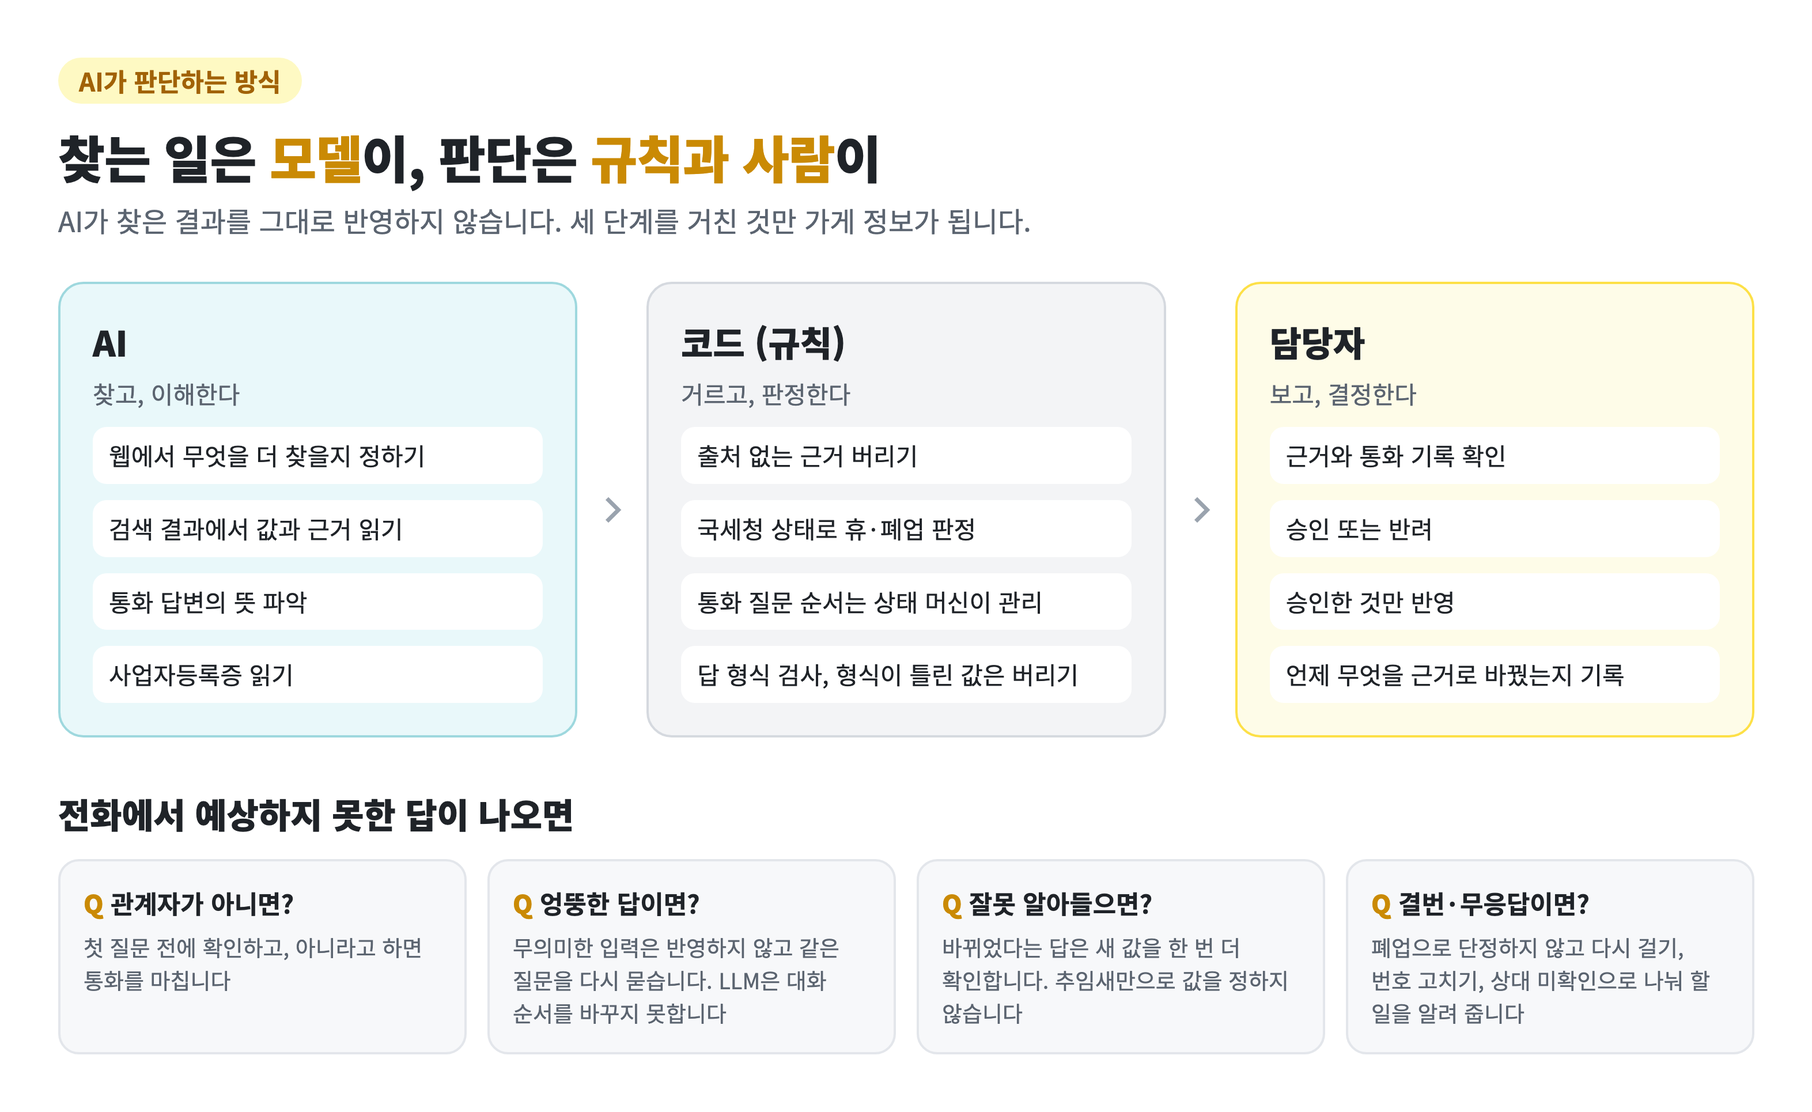
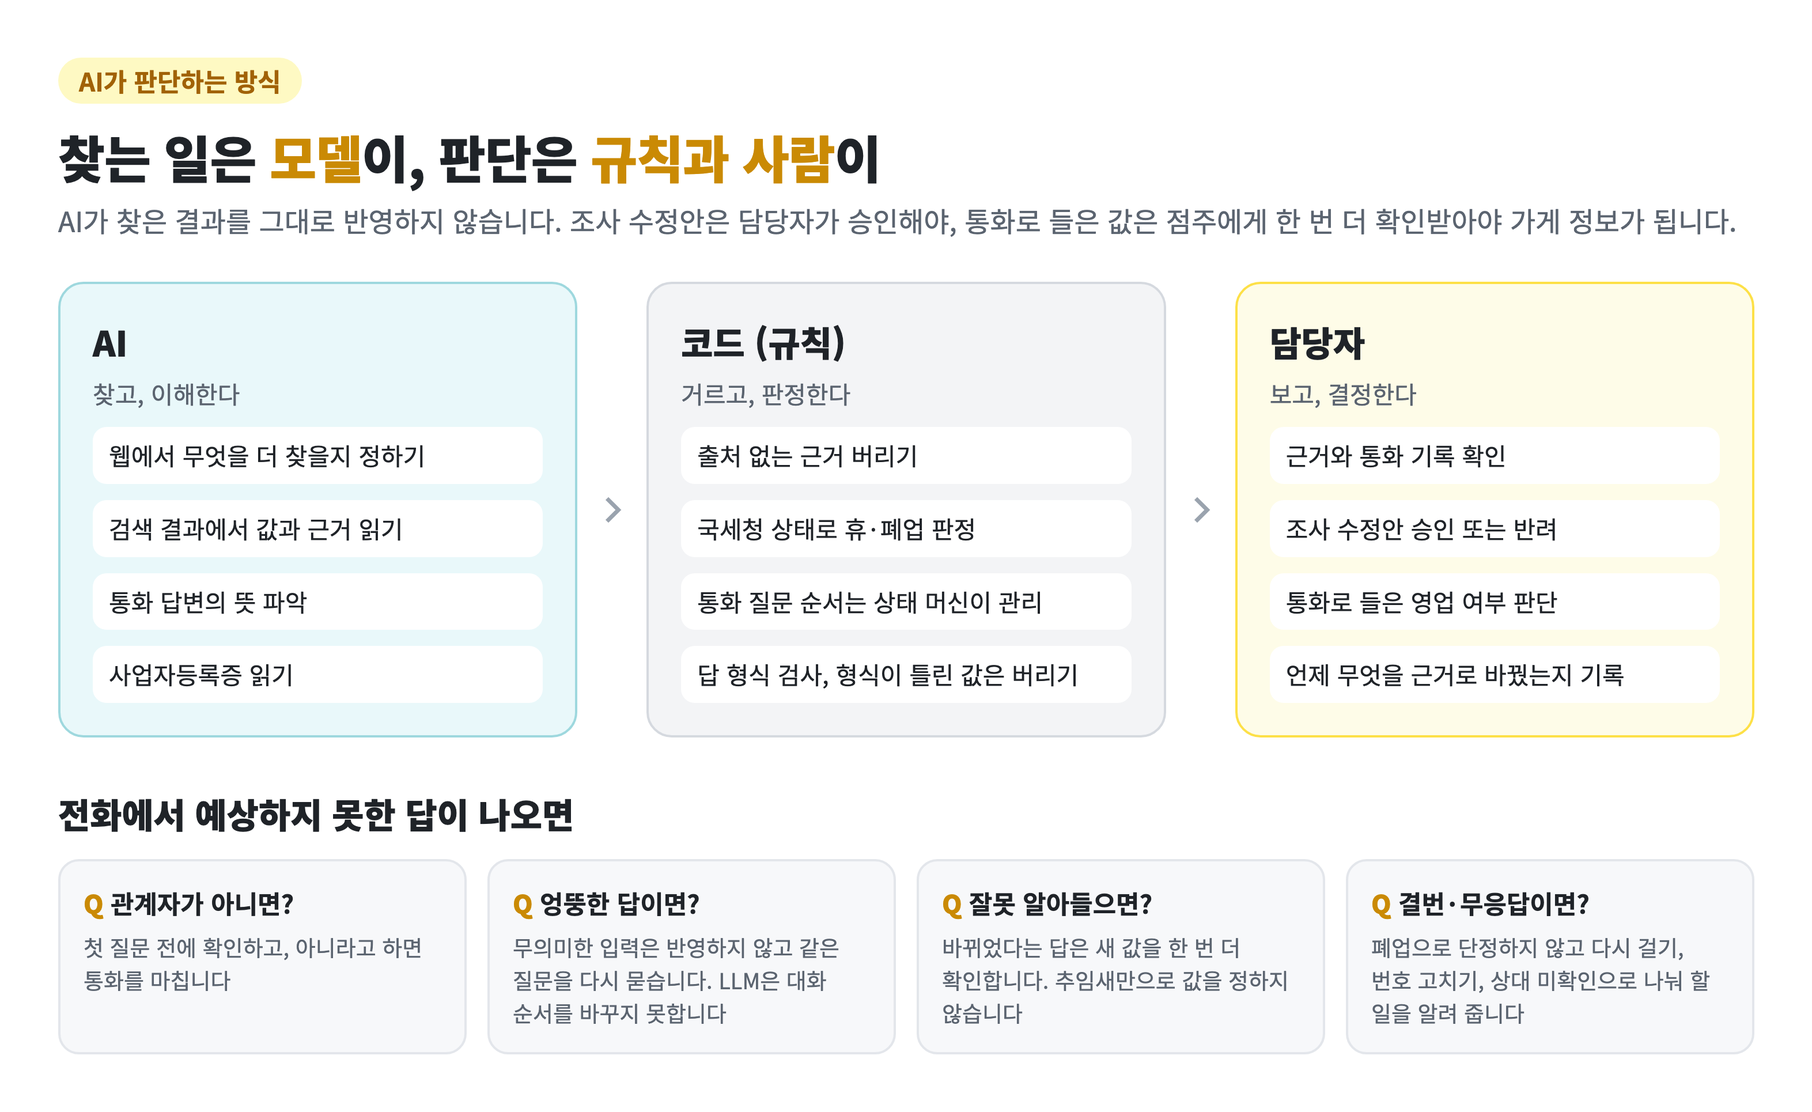
docs: README·멘토링·트러블슈팅 문서를 코드와 PR 원문에 맞춘다
- 확인 전화 결과는 상호·위치·전화를 바로 반영하고 영업 여부만 담당자가 판단한다(CallService.applyToStore, docs/확인_전화.md 8장). 그림 2장과 3회차 기록의 '승인해야 반영' 표현을 고친다
- 트러블슈팅 1·3번, 기술 멘토링 1·4회차의 PR 번호·수치·출처를 원문에 맞춘다
- README 측정·의도와 달랐던 결과 표, 로컬 실행 스위치, 저장소 구조, 배포 폴백 설명을 지금 설정에 맞춘다
- 백엔드 README 의 소개와 환경 변수 안내를 고친다

Changed region(s): [[0.3116, 0.1865, 0.966, 0.2176], [0.7167, 0.5285, 0.8725, 0.5596], [0.7167, 0.4663, 0.8725, 0.4974]]

diff --git a/docs/트러블슈팅/03.md b/docs/트러블슈팅/03.md
@@ -7,16 +7,16 @@
 | AI | 2026-09-08 ~ 2026-10-28 | [#11](https://github.com/kakaotechcampus-4/ktc4-kyungpook-6/pull/11) · [#16](https://github.com/kakaotechcampus-4/ktc4-kyungpook-6/pull/16) · [#24](https://github.com/kakaotechcampus-4/ktc4-kyungpook-6/pull/24) · [#30](https://github.com/kakaotechcampus-4/ktc4-kyungpook-6/pull/30) · [#42](https://github.com/kakaotechcampus-4/ktc4-kyungpook-6/pull/42) · [#54](https://github.com/kakaotechcampus-4/ktc4-kyungpook-6/pull/54) · [#74](https://github.com/kakaotechcampus-4/ktc4-kyungpook-6/pull/74) · [#89](https://github.com/kakaotechcampus-4/ktc4-kyungpook-6/pull/89) · [#108](https://github.com/kakaotechcampus-4/ktc4-kyungpook-6/pull/108) · [#120](https://github.com/kakaotechcampus-4/ktc4-kyungpook-6/pull/120) · [#134](https://github.com/kakaotechcampus-4/ktc4-kyungpook-6/pull/134) — 멘토 리뷰는 [#12](https://github.com/kakaotechcampus-4/ktc4-kyungpook-6/pull/12) · [#25](https://github.com/kakaotechcampus-4/ktc4-kyungpook-6/pull/25) |
 
 > **한 줄 요약**
-> AI 파트는 처음부터 "돌려 보니 되더라"가 아니라 **정답지가 있는 테스트셋과 수치**로 품질을 쟀습니다. 첫 벤치마크에서 모델은 23건 중 0건을 맞히면서 9건에 확신도 0.90~1.00을 달았고, 그 측정이 설계를 바꿨습니다(정답 하나 → 후보 여러 개 + 외부 검증). 이후 2차 조사도 공공데이터로 만든 60곳 벤치마크로 웹검색만·지도 대조·에이전트를 비교해 **10곳 → 22곳**으로 올렸고, 측정하고 넣지 않은 것까지 이유를 남겼습니다. 측정 도구 자체의 버그(분모·캐시·예외 삼킴)도 세 번 잡혔습니다.
+> AI 파트는 처음부터 "돌려 보니 되더라"가 아니라 **정답지가 있는 테스트셋과 수치**로 품질을 쟀습니다. 첫 벤치마크에서 모델은 23건 중 0건을 맞히면서 9건에 확신도 0.90~1.00을 달았고, 그 측정이 설계를 바꿨습니다(정답 하나 → 후보 여러 개 + 외부 검증). 이후 2차 조사도 공공데이터로 만든 60곳 벤치마크로 웹검색만·지도 대조·에이전트를 비교해 **10곳 → 22곳**으로 올렸고, 측정하고 넣지 않은 것까지 이유를 남겼습니다. 측정 도구 자체의 버그(분모·캐시·예외 누락)도 세 번 잡혔습니다.
 
 ## 한눈에 보기
 
 ```mermaid
 flowchart LR
     subgraph P1["① 사업자등록번호 웹검색 폴백"]
-        A["9/9 · #11<br/>fixture 23건 벤치마크<br/>완전일치 0/23<br/>오답 9건이 confidence 0.9+"]:::cause
+        A["9/9 · #11<br/>벤치마크 스크립트<br/>첫 측정 완전일치 0/23<br/>오답 9건이 confidence 0.9+"]:::cause
         B["9/10 · 멘토 리뷰 #12<br/>분모 버그 · 파싱 예외<br/>confidence 게이트 금지"]:::found
-        C["9/16 · #24<br/>후보 여러 개 + 비즈노 검증<br/>0% → 23.8%"]:::fix
+        C["9/16 · #24<br/>후보 여러 개 + 비즈노 검증<br/>0/21 → 4/21<br/>9/19 재실행 5/21"]:::fix
         D["9/19 · #30<br/>파싱 실패율 재다가<br/>실패 가리던 경로 3곳"]:::found
         A --> B --> C --> D
     end
@@ -38,7 +38,7 @@ flowchart LR
 
 ### ① 간판 이름으로는 사업자등록번호가 안 나온다
 
-국세청 조회는 사업자등록번호로 합니다. 번호가 비어 있으면 상호명으로 비즈노에 묻는데, 등록명은 간판과 다릅니다(`성심당` → `주식회사 로쏘`). 그래서 LLM 웹검색으로 등록명을 찾는 폴백을 만들었고([#11](https://github.com/kakaotechcampus-4/ktc4-kyungpook-6/pull/11)), **처음부터 정답지가 있는 fixture 23건과 벤치마크 스크립트**(`ai/eval/benchmark.py`)를 같이 냈습니다.
+국세청 조회는 사업자등록번호로 합니다. 번호가 비어 있으면 상호명으로 비즈노에 묻는데, 등록명은 간판과 다릅니다(`성심당` → `주식회사 로쏘`). 그래서 LLM으로 등록명을 찾는 폴백을 만들면서([#11](https://github.com/kakaotechcampus-4/ktc4-kyungpook-6/pull/11), 이때는 검색 없이 모델 지식만으로 답했습니다), **정답지가 있는 fixture 23건과 벤치마크 스크립트**(`ai/eval/benchmark.py`)로 처음부터 쟀습니다. fixture는 로컬에만 두고, 수치는 [`웹검색_폴백.md`](../../ai/docs/웹검색_폴백.md)에 남겼습니다.
 
 첫 측정 결과입니다.
 
@@ -101,7 +101,7 @@ control   손대지 않는다 (대조군 — 오탐을 센다)
 
 ## 해결
 
-### 1. 정답이 아니라 후보를 받고, 비즈노가 검증한다 · #16, #24
+### 1. 정답이 아니라 후보를 받고, 비즈노가 검증한다 · #24
 
 `{official_name, confidence}` 하나를 요구하던 프롬프트를 버리고 **후보 여러 개 + 근거·주소·사업자번호**를 받게 했습니다. 주소가 다른 지역이면 기각, 번호가 있으면 역조회, 아니면 이름으로 비즈노 검색. `confidence` 필드는 없앴습니다 — 모델은 정확할 필요 없이 **후보 안에 정답이 하나만 있으면** 됩니다.
 
@@ -179,7 +179,7 @@ control   손대지 않는다 (대조군 — 오탐을 센다)
 | 거짓 "다름" (DB 가 맞는 60곳) | 11곳 | 10곳, 이사 오탐 0 |
 | 측정하고 안 넣은 것 | 기록 없음 | 8건을 이유와 함께 표로([`2차_조사.md`](../../ai/docs/2차_조사.md) "넣지 않은 것") |
 
-- 측정 도구의 버그 셋(분모 · 파싱 예외 · 실패 캐시)은 전부 **"수치가 좋게 나오는 쪽"**으로 틀려 있었습니다. 멘토 리뷰가 둘을, 파싱 실패율을 넣다가 하나를 잡았습니다.
+- 측정 도구의 버그 셋(분모 · 파싱 예외 · 실패 캐시)은 모두 **수치를 실제와 다르게** 보이게 했습니다. 분모는 확신도를 실제보다 낮게, 잡히지 않은 파싱 예외는 벤치마크 전체를 멈추게, 실패 캐시는 실패율을 0으로 보이게 했습니다. 멘토 리뷰가 둘을, 파싱 실패율을 넣다가 하나를 잡았습니다.
 - 모든 수치는 **1회 실행값**이고 문서에 그렇게 적혀 있습니다. `5/21` 의 95% 신뢰구간은 10.6~45.1%, 직전 실행 `4/21` 과 겹칩니다. 그래서 `19.0% → 23.8%` 를 개선이라고 부르지 않았습니다.
 - 재현: `uv run python -m eval.biz_number --model oracle`, `uv run python -m eval.mismatch_bench run --tag m1 --mode fixed` ([`웹검색_폴백.md`](../../ai/docs/웹검색_폴백.md), [`2차_조사.md`](../../ai/docs/2차_조사.md) 끝에 명령이 있다).
 
@@ -187,7 +187,7 @@ control   손대지 않는다 (대조군 — 오탐을 센다)
 
 **모델의 확신도는 품질 지표가 아니다.** 0/23 인 실행에서 9건이 0.9 이상이었습니다. 지표는 모델 바깥(비즈노·정답지)에서 와야 하고, 그게 없으면 사람이 거르는 구조여야 합니다.
 
-**측정 도구부터 의심한다.** 분모가 틀리고, 실패가 캐시되고, 예외가 삼켜지면 **아무것도 안 고쳐도 수치가 좋아집니다.** 비율 지표의 분모는 "집계 대상 전체"가 아니라 그 지표의 모집단(실제 호출 건수, 확실 표시 건수)이어야 합니다.
+**측정 도구부터 의심한다.** 분모가 틀리고, 실패가 캐시되고, 예외가 잡히지 않으면 **아무것도 안 고쳐도 수치가 달라집니다.** 비율 지표의 분모는 "집계 대상 전체"가 아니라 그 지표의 모집단(실제 호출 건수, 확실 표시 건수)이어야 합니다.
 
 **벤치마크 숫자와 서비스가 받는 결과는 다를 수 있다.** 시간 예산을 넣으면 벤치마크는 나빠지고 서비스는 좋아졌습니다. 무엇을 재는지가 "끝까지 기다렸을 때"인지 "백엔드가 끊는 조건"인지 먼저 정해야 합니다.
 

diff --git a/docs/트러블슈팅/01.md b/docs/트러블슈팅/01.md
@@ -4,7 +4,7 @@
 
 | 파트 | 기간 | 관련 PR |
 | --- | --- | --- |
-| Call · Back | 2026-11-04 ~ 2026-11-09 | [#153](https://github.com/kakaotechcampus-4/ktc4-kyungpook-6/pull/153) · [#162](https://github.com/kakaotechcampus-4/ktc4-kyungpook-6/pull/162) |
+| Call · Back | 2026-11-04 ~ 2026-11-10 | [#153](https://github.com/kakaotechcampus-4/ktc4-kyungpook-6/pull/153) · [#162](https://github.com/kakaotechcampus-4/ktc4-kyungpook-6/pull/162) |
 
 > **한 줄 요약**
 > 확인 전화를 실제로 받아 보니, 점주가 "네"라고 답한 뒤 다음 질문까지 4초씩 조용했습니다. 원인은 매 답마다 음성 인식(2초)과 LLM 판정(2초)을 거치는 구조였습니다. 답이 대부분 "네·아니요·다시요·잠깐만요"라는 점에 맞춰, 고르는 일은 분류 모델 Jev에 맡기고 LLM은 새 값을 뽑을 때만 부르게 나눠 **평균 1.5초**로 줄였습니다. 빨라진 만큼 잘못 알아듣고 저장하는 일은 상태 머신과 확신도 기준으로 막았습니다.
@@ -15,7 +15,7 @@
 flowchart LR
     A["11/4 · #153<br/>실제 통화 테스트<br/>답 뒤 4초 침묵"]:::cause
     B["11/4 · #153 코멘트<br/>원인 확인<br/>STT 2초 + LLM 판정 2초"]:::found
-    C["11/4 · a310901<br/>LLM 추론 강도 낮추기<br/>판정이 틀릴 수 있어 보류"]:::miss
+    C["11/4 · a310901<br/>LLM 추론 강도 낮춤<br/>매번 LLM을 거치는 구조는 그대로"]:::miss
     D["11/9 · #162<br/>Jev가 분류<br/>LLM은 값 추출만"]:::fix
     E["결과<br/>4초 → 평균 1.5초"]:::fix
     A --> B --> C --> D --> E
@@ -31,18 +31,18 @@ flowchart LR
 
 그런데 직접 받아 보니 대화가 계속 뚝뚝 끊겼습니다. "네"라고 답하고 나면 다음 질문이 나올 때까지 4초 정도 아무 소리가 없었습니다. 받는 입장에서는 끊긴 줄 알고 먼저 끊기 딱 좋은 시간이었습니다.
 
-그때 남긴 기록입니다.
-
-```
-09:02:07 요청 → 09:02:11 발신 → 09:02:39 연결 → 09:04:16 종료
-```
+그때 잰 통화입니다([확인 전화 문서](../확인_전화.md)).
 
 | 통화 | 연결부터 종료까지 | 주고받은 횟수 |
 | --- | --- | --- |
 | 세 항목 재확인, 끝까지 | 79초 | 4번 |
 | 한 항목 답하고 끊음 | 33초 | 2번 |
 
-세 가지를 물어보는 데 80초 가까이 걸렸고, 중간에 한 번 끊겼다가 이어진 통화는 3분 20초까지 갔습니다.
+세 가지를 물어보는 데 80초 가까이 걸렸습니다. 중간에 한 번 끊겼다가 같은 문장을 다시 말해 이어진 통화도 있었는데, 그 통화는 연결부터 종료까지 97초였고 3분 20초까지 간 적도 있습니다.
+
+```
+09:02:07 요청 → 09:02:11 발신 → 09:02:39 연결 → 09:04:16 종료   (중간에 한 번 끊겼다 이어진 통화, 97초)
+```
 
 이 기능은 전화를 거는 것보다 끝까지 답을 듣는 게 중요합니다. 가게에서 중간에 끊어 버리면 실패로 남고 담당자가 다시 걸어야 하니까, 이 침묵이 그대로 실패율이 될 것 같았습니다.
 
@@ -60,7 +60,7 @@ flowchart LR
 
 LLM이 매번 "예인지 아니오인지, 새 값을 말한 건지, 다시 말해 달라는 건지"를 판단하고 있었는데, 확인 전화에서 나오는 답은 거의 "네", "아니요", "다시요", "잠깐만요" 정도입니다. 이 정도를 고르는 데도 매번 LLM을 거치고 있던 게 문제였습니다.
 
-LLM 추론 강도를 낮춰 보는 것도 생각했지만(`a310901`), 판정이 틀려질 수 있어서 충분히 테스트하기 전에는 바로 적용하기 어렵다고 봤습니다.
+먼저 LLM 추론 강도를 낮췄지만(`a310901`), 답마다 LLM을 거치는 구조는 그대로였습니다. 추론을 더 줄이면 판정이 틀려질 수 있어서, 구조 자체를 바꾸기로 했습니다.
 
 ## 해결
 
@@ -110,8 +110,7 @@ flowchart TB
 | 점주가 답한 뒤 다음 말까지 | 4초 | **평균 1.5초** |
 | 답을 판정하는 것 | LLM이 매번 | Jev가 분류, LLM은 새 값이 있을 때만 |
 | LLM이 값을 처리하는 동안 | 아무 소리 없음 | 대기 음성 |
-| 자주 쓰는 문구 | 매번 음성 합성 | 미리 만든 음성 재사용 |
-| 잘못 알아들었을 때 | LLM 판단을 그대로 따름 | 확신도가 낮으면 다시 묻고, 새 값은 다시 말해야 저장 |
+| 자주 쓰는 문구 | 통화마다 음성을 준비 | 공용 음성 캐시로 통화를 넘어 재사용 |
 
 - 점주가 답한 뒤 다음 말이 나오기까지 4초에서 평균 1.5초로 줄었습니다([#162](https://github.com/kakaotechcampus-4/ktc4-kyungpook-6/pull/162)).
 - 예/아니오만 오가는 재확인 전화는 이제 LLM을 거의 부르지 않습니다.

diff --git a/backend/README.md b/backend/README.md
@@ -1,7 +1,7 @@
 # backend — API 서버
 
-가게·조사·인증·QR 체크인 API 서버(Spring Boot + PostgreSQL). 관리자 웹과 앱이 이 서버를 부르고,
-2차 조사는 AI 서버를 불러 맡긴다.
+가게·조사·인증·QR 체크인·주문·확인 전화 API 서버(Spring Boot + PostgreSQL). 관리자 웹과 앱이 이 서버를 부르고,
+2차 조사는 AI 서버를, 가게 확인 전화는 통화 서버를 불러 맡긴다.
 
 > 맥(macOS) 기준으로 작성했습니다. 윈도우는 맨 아래 [윈도우 사용자](#윈도우-사용자) 참고.
 
@@ -244,12 +244,14 @@ JAVA_HOME=$(/usr/libexec/java_home -v 21) gradle bootRun
 | `INTERNAL_API_KEY` | AI 서버가 백엔드 조회 API 를 부를 수 없고, 백엔드가 AI 를 부를 때 키를 싣지 않음 |
 | `AI_BASE_URL` | `http://localhost:8000` 의 AI 서버를 찾음 |
 | `NTS_SERVICE_KEY` · `BIZNO_API_KEY` · `KAKAO_REST_API_KEY` | 국세청 대조 · 비즈노 조회 · 좌표 채우기가 동작하지 않음 |
+| `VERIFICATION_API_BASE_URL` · `VERIFICATION_API_KEY` | 확인 전화를 걸 수 없음 (통화 서버 주소와 키) |
 
-각 값의 설명은 [`.env.example`](.env.example) 에 있습니다. 전체 목록은 `src/main/resources/application.yml` 의
-`${...}` 를 보세요.
+대부분의 설명은 [`.env.example`](.env.example) 에 있습니다. `.env.example` 에 없는 값(`AI_BASE_URL` 등)까지 전체 목록은
+`src/main/resources/application.yml` 의 `${...}` 를 보세요.
 
-> **`gradle bootRun` 은 `.env` 파일을 읽지 않습니다.** `.env` 는 `docker compose` 만 읽습니다.
-> 직접 띄울 때는 터미널에서 넘겨 주세요.
+> **`gradle bootRun` 은 `.env` 파일을 읽지 않습니다.** 이 폴더의 `docker-compose.yml` 도 `.env` 를 DB·포트 값을 채우는 데만
+> 쓰고, 위 표의 값은 컨테이너에 넘기지 않습니다. 위 값을 넣어 띄울 때는 터미널에서 넘기거나, 저장소 루트의
+> `docker compose`(루트 README의 "로컬에서 시작하기")를 쓰세요.
 >
 > ```bash
 > JWT_SECRET=... ADMIN_EMAIL=admin@example.com ADMIN_PASSWORD=... \

diff --git a/docs/기술멘토링/04_최종.md b/docs/기술멘토링/04_최종.md
@@ -4,7 +4,7 @@
 
 ## 그때 상황
 
-최종 제출 하루 전, 발표 이틀 전이었습니다. 발표는 공개 정보 다음에 기능 두 가지를 하나씩 공개하는 구성이었고, 시연은 확인 전화만 라이브로 하고 조사 기능은 영상으로 보여 줄 계획이었습니다. 멘토님 앞에서 발표를 처음부터 끝까지 하고, 실제로 가게에 전화를 거는 시연도 했습니다.
+최종 제출 하루 전, 발표 이틀 전이었습니다. 발표는 공개 정보 다음에 기능 두 가지를 하나씩 공개하는 구성이었고, 시연은 확인 전화만 라이브로 하고 조사 기능은 영상으로 보여 줄 계획이었습니다. 멘토님 앞에서 발표를 처음부터 끝까지 하고, 팀원 번호로 실제 전화를 거는 시연도 했습니다.
 
 ## 나온 이야기
 
@@ -27,5 +27,7 @@
 
 ## 바뀐 것
 
-- 기술 멘토링 기록: 이 폴더
-- README, 예외 처리 정리, 발표 구성: 제출 전 반영
+- 기술 멘토링 기록을 회차별로 정리해 저장소에 넣었습니다: 이 폴더 ([#179](https://github.com/kakaotechcampus-4/ktc4-kyungpook-6/pull/179))
+- README를 다시 썼습니다. 맨 위에 소개 영상을 두고, 실제 확인 전화 두 통을 요청 → 통화 녹음 → 결과 순서로 넣었습니다 ([#179](https://github.com/kakaotechcampus-4/ktc4-kyungpook-6/pull/179))
+- 의도와 달랐던 테스트 결과와 그 이유, 조치를 정리했습니다: README의 [의도와 달랐던 결과와 바꾼 것](../../README.md#의도와-달랐던-결과와-바꾼-것), [트러블슈팅](../../README.md#트러블슈팅) 1~3번 ([#187](https://github.com/kakaotechcampus-4/ktc4-kyungpook-6/pull/187), [#189](https://github.com/kakaotechcampus-4/ktc4-kyungpook-6/pull/189), [#190](https://github.com/kakaotechcampus-4/ktc4-kyungpook-6/pull/190))
+- 발표에 담당자의 월요일 아침 장면을 넣고, 확인 전화 라이브 시연을 중심에 두었습니다

diff --git a/docs/기술멘토링/03_11주차.md b/docs/기술멘토링/03_11주차.md
@@ -24,7 +24,7 @@
 
 - 조사 기능은 마무리하는 선에서 두고, 다음 주부터 에이전트 기능을 새로 넣기로 했습니다.
 - 후보는 에이전트가 가게에 전화 걸기, 점주 가입 단순화 두 가지였습니다.
-- 담당자 승인은 그대로 둡니다. 전화 결과도 수정안으로 올리고 담당자가 승인해야 반영됩니다.
+- 조사 수정안의 담당자 승인은 그대로 둡니다. 전화는 끝까지 확인된 답만 반영하고, 영업 여부는 담당자가 판단하기로 했습니다([#153](https://github.com/kakaotechcampus-4/ktc4-kyungpook-6/pull/153)).
 
 같은 주에 만난 아동급식 분야 실무자도 가장 정확한 정보는 사장님이라고 했고, 이것이 방향을 바꾸는 데 힘을 실었습니다.
 
@@ -32,7 +32,7 @@
 
 ### AI 확인 전화
 
-통화 서버가 LTE 모뎀으로 가게에 실제 전화를 겁니다. 관계자인지 먼저 확인하고, 등록된 값이 지금도 맞는지 항목마다 묻습니다. 바뀌었다는 답에는 새 값을 다시 확인합니다. 백엔드는 통화 결과를 가져와 수정안과 통화 기록을 담당자에게 보여 줍니다. [통화 서버 문서](../../call/README.md)
+통화 서버가 LTE 모뎀으로 가게에 실제 전화를 겁니다. 관계자인지 먼저 확인하고, 등록된 값이 지금도 맞는지 항목마다 묻습니다. 바뀌었다는 답에는 새 값을 다시 확인합니다. 백엔드는 통화 결과를 가져와 상호명·매장 위치·전화번호는 바로 반영하고, 영업 여부는 담당자가 판단하도록 통화 기록과 함께 보여 줍니다. [통화 서버 문서](../../call/README.md)
 
 ```mermaid
 sequenceDiagram

diff --git a/docs/기술멘토링/01_4주차.md b/docs/기술멘토링/01_4주차.md
@@ -27,7 +27,7 @@
 
 ## 바뀐 것
 
-- 조사 한 번을 Job, 가게별 결과를 Task로 남기고, 국세청 정기 확인 이력을 따로 저장했습니다. [#28](https://github.com/kakaotechcampus-4/ktc4-kyungpook-6/pull/28)
+- 조사 한 번을 Job, 가게별 결과를 Task로 남기는 테이블을 만들었고([#18](https://github.com/kakaotechcampus-4/ktc4-kyungpook-6/pull/18)), 국세청 정기 확인 이력은 따로 저장했습니다([#28](https://github.com/kakaotechcampus-4/ktc4-kyungpook-6/pull/28)).
 - 골든 데이터셋은 이후 정보가 다른 가게 36곳과 대조군 24곳, 총 60곳으로 만들어 조사 에이전트를 측정했습니다. [2차 조사 문서](../../ai/docs/2차_조사.md#측정)
 - 파트별로 나눠 개발하고 주 1회 `develop → main` PR로 멘토 리뷰를 받는 흐름이 이때 자리 잡았습니다. [깃 협업 규칙](../깃_협업_규칙.md)
 - 검색 결과에 기댄다는 한계는 이후에도 계속 남았고, [3회차](./03_11주차.md)에서 방향을 바꾸는 계기가 됐습니다.
